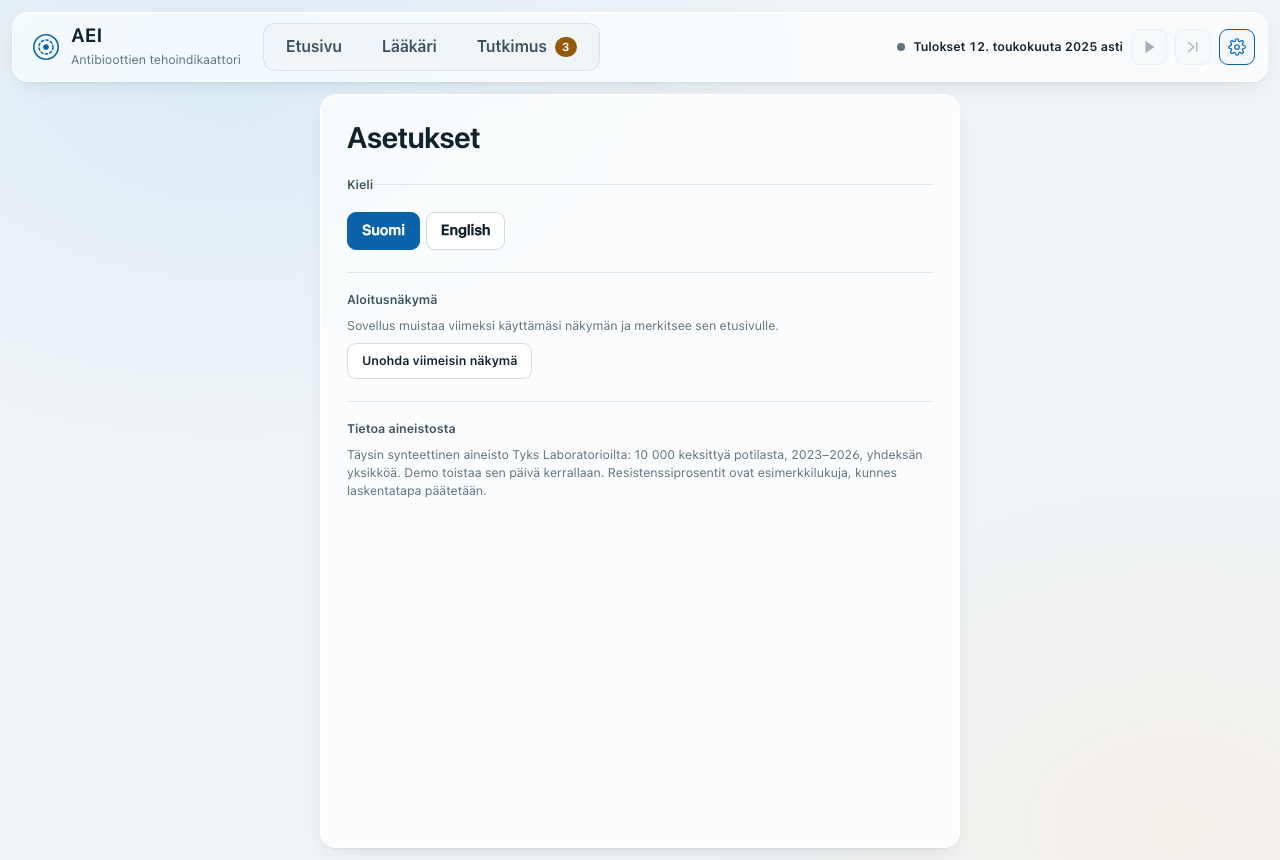
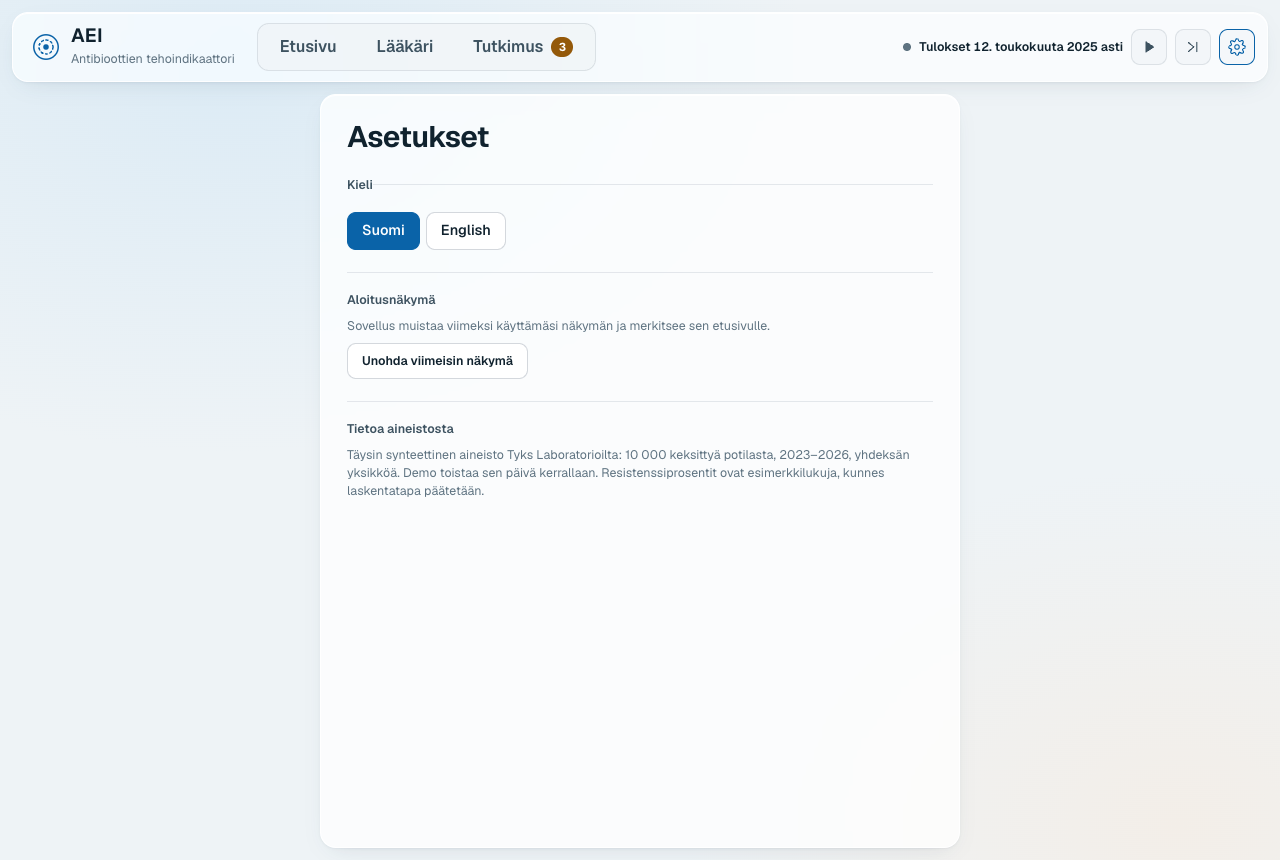
Design night: true phone before shots, wave-1 review and metrics

diff --git a/benchmarks/overnight-2026-10-17/design/review-wave1.md b/benchmarks/overnight-2026-10-17/design/review-wave1.md
@@ -1,0 +1,81 @@
+# UX review, wave 1 (Sonnet reviewer)
+
+Measured on http://localhost:5174, replay clock 2025-05-12, unit Urology. Language was Finnish by default (browser locale); I switched to English for the copy check and did not switch it back, so `aei.lang` in that browser is now English. Clock restored to 2025-05-12, paused.
+
+## U1 Doctor's list (Urology, urine, female, 65+, severe)
+
+| Device | Path | Clicks | Seconds (estimate) |
+|---|---|---|---|
+| Laptop | Home "Open the doctor's list" (or the Doctor tab) -> F -> 65+ -> severe | 4 | about 8 to 10 (unit preset, urine default; list renders as soon as the filters flip) |
+| Laptop, defaults only | Home -> Doctor | 1 | about 3 |
+| Phone 375 | Doctor tab -> Filters summary -> F -> 65+ -> severe (-> collapse Filters to see the list) | 5, or 6 with collapse | about 14 to 18 |
+
+Verdict: laptop is 4 clicks (target <= 3, but with 3 named filters 4 is the floor; the two taps of the defaults case are met). Phone is over target.
+Reading the list as a doctor with a minute: the top row and its "clears the bar" line are obvious; "Does not clear the 90 % bar" divider is clear; n, interval, level badge and as-of are all present; "not applied yet" is shown twice (chip and banner), which is good. Wording is within covers / clears the bar / moved down because on the doctor page. No "give" or "recommended" on screen, but see fix 9.
+
+Problems found:
+- Banner says "Age group and day-3 onset are not applied" even when only the age group was set (day 3 is "no"). Misleading about what the doctor chose.
+- No per-row newest-result date (the brief asks for it); only the "since 13 May 2024" window start.
+- Ceftazidime 18 % (n 77) is rendered in the same large type as real answers although "not assessable". A big 18 % invites misreading.
+- "Standing" (EN) / "Asema" (FI) column header is vague; "not for E. faecalis" is weaker than "does not cover".
+- "F / M" are untranslated in Finnish (should be N / M) and not spelled out in English.
+- Footer shows internal decision ids to the doctor ("Säännöt D-023, D-027, D-033").
+- On the laptop the timeline and filter strip take about 55 % of 860 px; only the first row is in view.
+- Filter chips are 34 px high on laptop (phone is 44, good).
+
+## U2 Researcher
+
+Feed -> isolates is 1 click (expand the card) for the MED-A ESBL cluster (2025-04-30, 7 isolates) and for the CPE sentinel (1 isolate). U2 = 1 (plus a scroll: the cluster is below the fold at 860 px behind two pinned sentinels and the filters). Isolate rows show date, patient, organism, specimen, day, phenotype and a raw S/R string ("RRR.RR.SSSS.."), which contradicts AUDIENCE "susceptible and resistant, not S/R codes". Expanding also outlines MED-A / week 18 in the grid, and "Show in grid" / "Open in doctor's list" are there.
+
+One glance and linking:
+- Grid: yes, clusters read as the boxed cell; but shade is count, not surprise (the panel says so honestly).
+- Network: yes, MED-A lit, downstream shaded. Clicking URO sets `unit=URO` and the feed filters to URO: unit selection links. A selected sentinel (ED) does not light ED on the network (only the active cluster unit is lit).
+- Map: not one glance. The map starts below the legend and controls and is cut at 860 px; the unit selection does not apply (fine, regional) but nothing says so.
+
+## U3 Count and as-of in the same element or direct label
+
+| View | Yes/no | Offending elements |
+|---|---|---|
+| Home | no | Research tab badge "3" has no label or date and disagrees with the card ("1 open signal, last 28 days") and the feed ("13 signals in 365 days") |
+| Doctor | yes | only gap: no newest result date per row; "ei vielä käytössä" fine |
+| Feed | yes | unit/kind/phenotype chip counts rely on the header "13 signals in 365 days" plus as-of |
+| Grid | yes | cell counts, totals and as-of in header |
+| Network | no | node labels "34 % of MED-A" carry no count; the patient counts exist only in the SVG edge aria-labels |
+| Map | yes | "Finland: 105 cases, April 2025"; per-county figures appear only after a click |
+| Settings | no | "Resistance percentages are example figures until the counting method is decided" is stale: doctor figures are live |
+
+## U7 Replay timeline
+
+| Feature | Present |
+|---|---|
+| Scrub (range input "Replay day") | yes |
+| Play / pause | yes (Play -> "Pause", moved 1 day per 2 s) |
+| Step day / week | yes |
+| Speeds (4) | yes |
+| Jump to the three events | yes (menu and ticks) |
+| Jump to an arbitrary date | no on desktop (date is plain text; the phone date is a button that opens the control) |
+| As-of on every panel | yes (Home, Doctor, feed, grid, network, map each show "as of ...") |
+| "Lab feed, replayed" label | yes |
+
+The map has a second slider, "Browse months (does not move the replay clock)", which sits next to the replay clock and competes with it.
+
+## Keyboard, language, phone
+
+- Keyboard: focus ring visible (2 px accent outline); skip link "Skip to the list" exists; order is logical (nav, timeline, filters, rows). About 20 stops of timeline before the filters.
+- Finnish: "7 28 pv:ssä" (digit collision), "1 löydöstä" (should be "1 löydös"), decimal points "1.4" / "p 6.0e-5" (Finnish uses a comma), "Päijät-Hämeen" cut-off genitive, "avo" for outpatient unexplained.
+- English: "Open recommendations" and "What to give the patient in front of you" still exist as i18n keys `roleDoctorAction` / `roleDoctorLead` (en.ts 191, 195; fi.ts 197 "Avaa suositukset"). Home currently shows other copy, so the keys are dead, but the strings violate the wording rule.
+- Phone: research page overflows horizontally (scrollWidth 643 on a 375 window; the Kind chip row); on Home, "Last used" moves the Research card above the Doctor card so the doctor needs a scroll.
+- Regression vs old app: none that I could verify without running the old build; the doctor's page lost the in-page Ask field by design (amendment 5).
+
+## Ten fixes, ranked by convenience per hour
+
+1. Phone doctor: after choosing a filter, keep the summary open but show the list directly below the sticky "Filters: ..." row; collapse automatically after the last tap or add "Show list" (saves 1 click, 3 s). Surface: doctor phone. Files: `apps/web/src/components/doctor/DoctorPage.tsx`, `RecordStrip.tsx`, `RecordStrip.css`. 0.5 h.
+2. Phone research overflow: wrap the chip rows (`flex-wrap`) and set `min-width:0` on the feed column. Files: `research/SignalFeed.css`, `ResearchBoard.css`. 0.5 h.
+3. Doctor banner: name only what was chosen ("Age group is not applied" / "Day 3 is not applied"). Files: `doctor/DoctorPage.tsx`, `libs/utils/i18n/src/surfaces/doctor.ts`. 0.25 h.
+4. Not-assessable rows (ceftazidime 18 %): grey the figure, drop the bar, show "not assessable, 79 % untested". Files: `doctor/CoverageList.tsx`, `CoverageList.css`. 0.5 h.
+5. Add the newest result date to each row, from the API field if it exists, else show "as of" only. Files: `doctor/CoverageList.tsx`. 0.5 h.
+6. Home Research badge "3": label it ("3 open signals, 28 d") or drop it and use the same number as the card. Files: `TopBar.tsx`, `home/Roles.tsx`. 0.5 h.
+7. Pin the doctor card first on Home regardless of "Last used" (show Last used as a tag only). Files: `home/Roles.tsx`. 0.25 h.
+8. Replace the raw S/R string in isolate rows with a short list of the resistant drugs ("resistant: AMP, CRO, CIP ..."), keep the string on hover or in a details block. Files: `research/feed/*`, `surfaces/feed.ts`. 1 h.
+9. Copy: remove dead "recommendation/give" keys; translate F/M (N/M); "not for" -> "does not cover"; rename "Standing" -> "Result"; strip D-ids from the doctor footer; fix Finnish plurals and decimal commas ("1,4", "6,0e-5" -> "0,00006"); fix the stale Settings sentence. Files: `libs/utils/i18n/src/en.ts`, `fi.ts`, `surfaces/doctor.ts`, `feed.ts`, `map.ts`. 1 h.
+10. Network and timeline: show patient counts in the node label ("34 % of MED-A, n 53"); light the unit of the selected sentinel; add a "Jump to date" input to the timeline; on the map, link the month slider to the clock or label it as a separate browser. Files: `research/HospitalNetwork.tsx`, `Timeline.tsx`, `research/RegionalMap.tsx`. 2 h.

diff --git a/benchmarks/overnight-2026-10-17/design/u-metrics.md b/benchmarks/overnight-2026-10-17/design/u-metrics.md
@@ -16,5 +16,6 @@ Measured by `measure.sh` in this folder (`sh measure.sh <label>`). Lighthouse JS
 |---|---|---|---|---|---|---|---|---|---|---|
 | 01:30 | ec23f01 (clean detached checkout) | before | Named context not reachable: the doctor page opens in 1 click from home, a unit change adds 2 (select, option), but sex, age and day-3 onset cannot be entered, and the list shows example figures, not the API's coverage | Not reachable: the feed lists isolates (resistant finds), the 1 infection-control alert sits in a collapsed disclosure with Explain only, no link to its isolates | No: as-of appears only in the top bar; doctor rows show n but the figures are labelled examples; research tables have no per-panel date | a11y 100 / 96 / 100; contrast home pass, doctor FAIL (1 item: `span.muted.num`, 4.22:1, #5f7381 on #e3effa), research pass | 0 (en 213, fi 213); JSX literal hint 4 lines | 3.62 s / 3.61 s / 3.61 s (all above 2.5 s); FCP 2.30 s each | 2 of 5: play and pause (plus step one day); no scrub, no jump to a date, no speed, no per-panel as-of | U4 to U6 by measure.sh on a clean detached worktree of ec23f01 (same numbers as the first, contaminated run at 01:12, which this row replaces). U1, U2, U3, U7 by the orchestrator in the browser. Doctor LCP element: `p.field-hint` in the context form |
 | 01:31 | eaf4de5 (clean detached checkout, measure-wt) | wave1 | see orchestrator row | see orchestrator row | see orchestrator row | a11y 95 / 96 / 100; contrast home FAIL (1 item: `p.hm-intro > span`, 4.41:1, #5f7381 on #eef3f6), doctor pass, research pass | 0 (en 237, fi 237); JSX literal hint 5 lines | 3.77 s / 3.92 s / 6.78 s (all above 2.5 s); FCP 2.30 s each | see orchestrator row | Failing a11y audits: home `color-contrast`, `label-content-name-mismatch` (3 `a.hm-link` with aria-label differing from text, plus `button.mark`); doctor `list` (`ul.cl-rows` has `li.cl-divider` role=separator child), `label-content-name-mismatch` (`button.mark`); research `label-content-name-mismatch` (`button.mark`, 4 `button.feed-chip`). `button.mark` aria-label "Etusivu" hides its visible text on all three pages. Home a11y fell from 100 to 95 and doctor contrast now passes, so the home intro span is the new contrast failure. U6 recorded, not acted on: the CPU is shared with another overnight session, so LCP values are noisy. |
+| 01:36 | eaf4de5 (live app, same code) | wave1, orchestrator row | Laptop: 4 clicks, about 8–10 s (Doctor, F, 65+, severe; unit remembered); defaults only 2 clicks, about 3 s. Phone: 5 clicks, about 14–18 s (filters sit behind a disclosure). Age group and day 3+ are shown but not applied (no API filter) | 1 (card header opens the isolates; sentinel and cluster both) | Yes: doctor, feed, grid, map. No: home (Research tab badge has no label or date), network (flow shares without counts outside aria-labels), settings (stale 'example figures' sentence) | (Haiku row above) | (above) | (above) | 4 of 5 fully: scrub, play, pause, per-panel as-of yes; jump to a date only to the three events or by scrubbing, no free date entry | UX reviewer (Sonnet 5.5), review-wave1.md. Before: U1 not reachable, U2 not reachable, U3 no, U7 2 of 5 |
 
 The first run at 01:12 (ec23f01 plus other agents' uncommitted edits) gave identical U4 to U6 numbers; it is replaced by the clean row above.

diff --git a/benchmarks/overnight-2026-10-17/design-log.md b/benchmarks/overnight-2026-10-17/design-log.md
@@ -42,3 +42,5 @@ Screenshots come from headless Chrome through
 | 01:34 | builder (Sonnet 5.5) | Finished pitch intro at #intro: terraced contour surface of the THL county rate (6 flat steps), university and central hospitals on the referral tree with pulses, month slider, labelled a picture of pressure, Enter the tool |
 | 01:34 | quality (Haiku 5.5) | Wave 1 measured on eaf4de5: U4 95/96/100 (home down from 100: one contrast item, accessible names not containing visible text on home links, feed chips, the mark button; doctor list contains a role=separator item); U5 0 missing (237 keys); U6 3.8/3.9/6.8 s (noisy, recorded only) |
 | 01:34 | orchestrator (Opus 5.5) | U4 regression fixed instead of reverted: --ink-3 #5f7381 → #566a78, accessible names follow visible text, plain divider item. Live connection counts as open once the HTTP API answers (headless shots showed 'connecting' with disabled controls). shoot.sh replaced by shoot.mjs (DevTools protocol, real waits, true 390 px mobile emulation) |
+| 01:36 | UX reviewer (Sonnet 5.5) | Wave 1 review (review-wave1.md): U1 4 clicks laptop / 5 phone, U2 1, U3 no on home, network, settings; U7 4 of 5 (no free date entry). Ten ranked fixes |
+| 01:37 | orchestrator (Opus 5.5) | Before screenshots retaken from the pre-night commit 98cfd99 served on :5175 with shoot.mjs (true 390 px; the first set was a wider layout). Wave 2 started, four builders (Sonnet 5.5): doctor fixes; feed and phone overflow; home, top bar, settings, dead copy; network counts, map slider label, timeline date entry |
